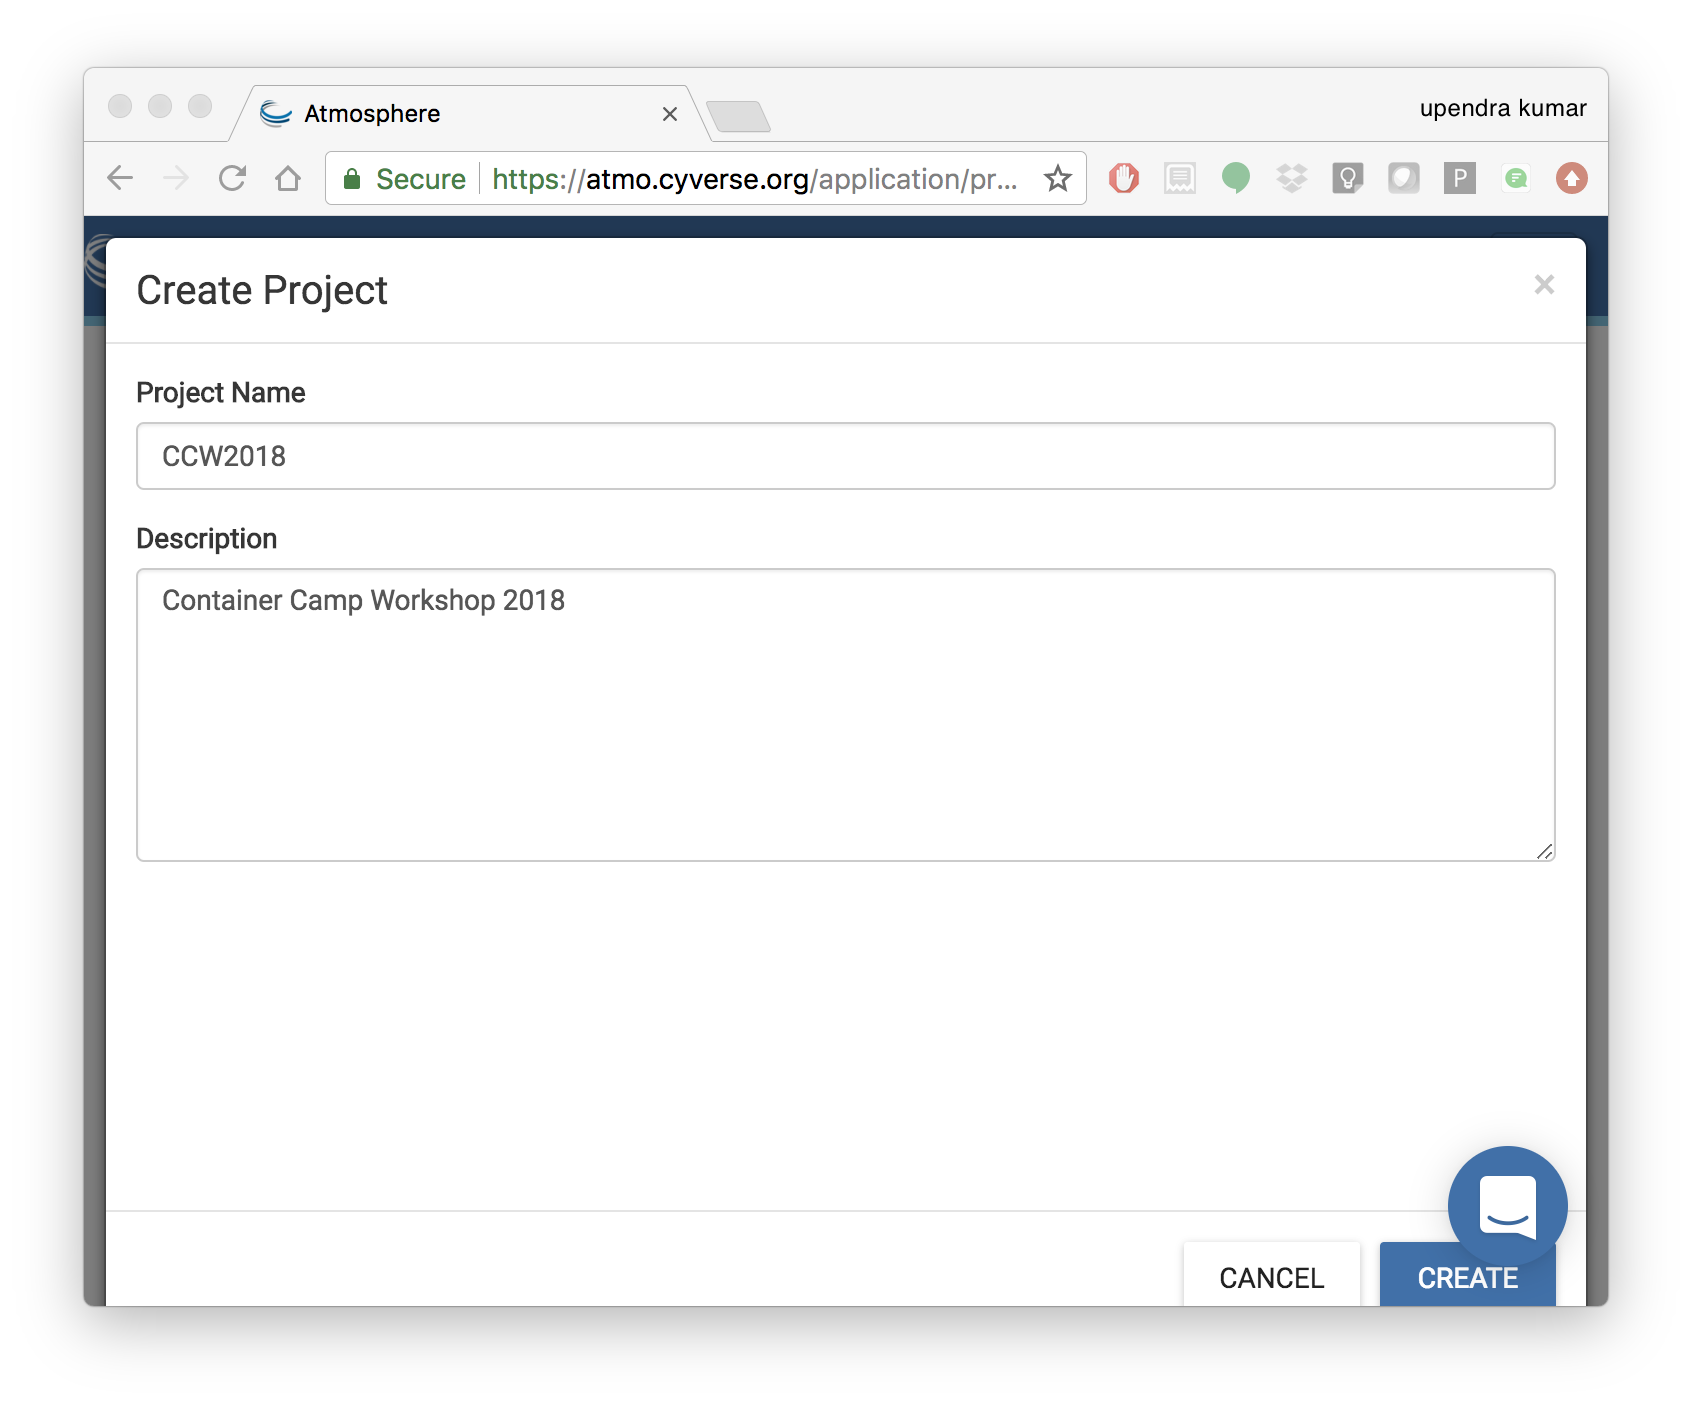
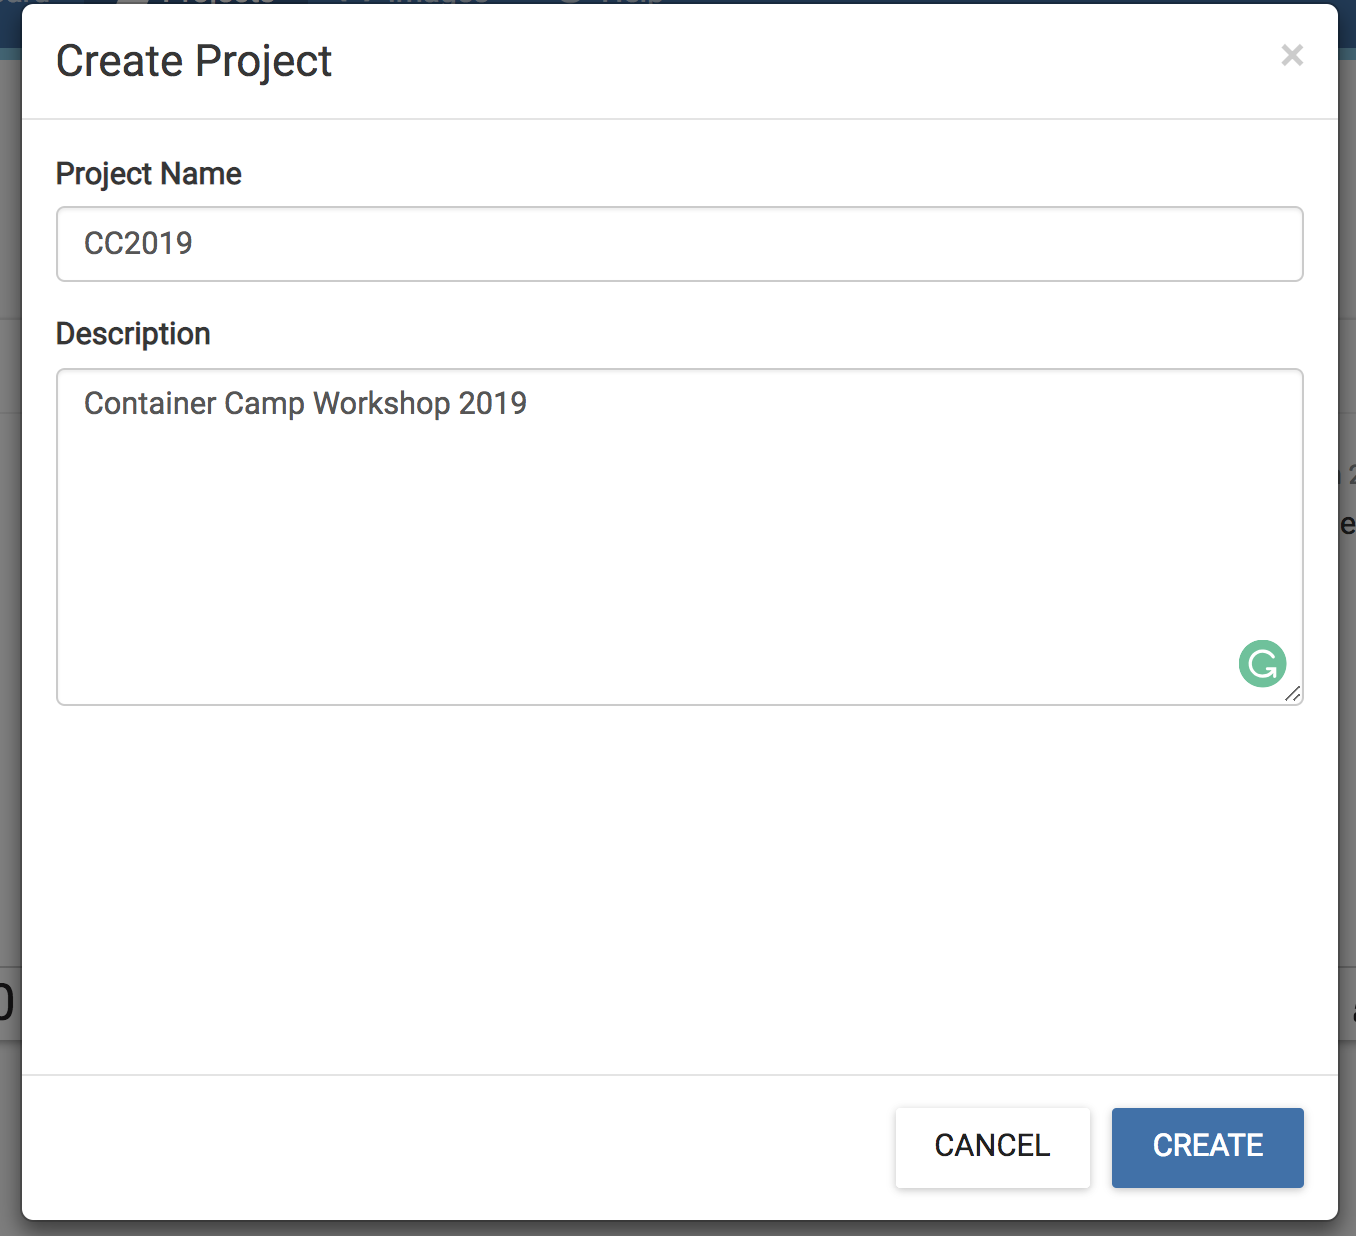
Modified Atmosphere boot

Changed region(s): [[0.0, 0.0, 1.0, 1.0]]

diff --git a/cyverse/boot.rst b/cyverse/boot.rst
@@ -1,36 +1,31 @@
 **Booting an Atmosphere instance**
 ==================================
 
-In this session, we will walk through how to start up a running
-computer (an "instance") on the CyVerse Atmosphere Cloud service. 
+In this session, we will walk through how to start up a running computer (an "instance") on the CyVerse Atmosphere Cloud service. Here is the `Atmosphere manual <https://wiki.cyverse.org/wiki/display/atmman/Atmosphere+Manual+Table+of+Contents>`_ if you are interested in learning more about CyVerse Atmosphere 
 
-Below, we've provided screenshots of the whole process. You can click
-on them to zoom in a bit. The important areas to fill in are highlighted. You will need to have Atmosphere access, as listed in your Pre-Workshop Instructions.
+Below, we've provided screenshots of the whole process. You can click on them to zoom in a bit. The important areas to fill in are highlighted. 
 
-First, go to the `Atmosphere <https://atmo.cyverse.org/application/images>`_ application and then click `login`
+First, go to the `Atmosphere <https://atmo.cyverse.org>`_ application and then click **login** 
 
 .. important::
 
-  You will need to have access to the Atmosphere workshop cloud. If you are not able to log-in for some reason, please let us know and we will fix it immediately.
+  You will need to have access to the Atmosphere workshop cloud. If you are unable to log-in for some reason, please let us know and we will fix it immediately.
 
-1. Fill in the username and password and click "LOGIN"
+1. Fill in the username and password and click **LOGIN**
 
-Fill in the username, which is your CyVerse username,
-and then enter the password (which is your CyVerse password).
+Fill in the username, which is your CyVerse username, and then enter the password which is your CyVerse password.
 
-|atmo-1|
+|atmo-1.1|
            
-2. Select Projects and "Create New Project"
+2. Select Projects and **Create New Project**
 
 - Now, this is something you only need to do once.
 
-- We'll do this with Projects, which gives you a bit of a workspace in which to keep things that belong to "you".
+- We'll do this with Projects, which gives you a bit of a workspace in which to keep things that belong to *you*.
 
-- Click on the "Projects" tab on the top and then click "CREATE NEW PROJECT"
+- Click on the **Projects** tab on the top and then click **CREATE NEW PROJECT**
 
-|atmo_cp0|
-
-- Enter the name "CCW2018" into the Project Name, and something simple like "Container Camp Workshop 2018" into the description. Then click 'create'.
+- Enter the name **CC2019** into the Project Name box, and something simple like **Container Camp Workshop 2019** into the description. Then click **create**.
 
 |atmo_cp|
 
@@ -38,15 +33,15 @@ and then enter the password (which is your CyVerse password).
 
 - Click on your newly created project!
            
-- Now, click 'New' and then "Instance" from the dropdown menu to start up a new virtual machine.
+- Now, click **New** and then **Instance** from the dropdown menu to start up a new virtual machine.
 
 |atmo_launch0|
 
-- Find the "Ubuntu 16.04" image, click on it
+- Find the **Ubuntu 18.04** image, click on it
 
 |atmo_launch1|
 
-- Name it something simple such as "workshop tutorial" and select 'tiny1 (CPU: 1, Mem: 4GB, Disk: 30GB)'.
+- Name it something simple such as **workshop tutorial** and select **small1 (CPU: 2, Mem: 8GB, Disk: 30GB)**.
 
 - Leave rest of the fields as default.
 
@@ -54,25 +49,25 @@ and then enter the password (which is your CyVerse password).
 
 - Wait for it to become active
 
-- It will now be booting up! This will take 2-10 minutes, depending.
-Just wait! Don't reload or anything.
+- It will now be booting up! This will take 2-10 minutes, depending. Just wait! Don't reload or do anything.
 
 |atmo-6|
 
 - Click on your new instance to get more information!
 
-- Now, you can either click "Open Web Shell", *or*, if you know how to use ssh,
-you can ssh in with your CyVerse username on the IP address of the machine 
-
-|atmo-7|
+- Now, you can either click **Open Web Shell**, *or*, you can ssh in with your CyVerse username on the IP address of the machine. For using **Open Web Shell**, click on the name of the instance and it will take you to the next screen. You'll find the **Open Web Shell** underneath the Actions menu on the right.
 
 **Deleting your instance**
 
-- To completely remove your instance, you can select the "delete" buttom from the instance details page. 
+- To completely remove your instance, you can select the **Delete** buttom from the instance Actions page. 
 
-- This will open up a dialogue window. Select the "Yes, delete this instance" button.
+- This will open up a dialogue window. Select the **Yes, delete this instance** button.
 
 |atmo-8|
+
+.. important::
+
+Before deleting an instance make sure you backup your data, once the instance is deleted, there is no way you can get the data back. It is recommended to `attach the volume to the instance <https://wiki.cyverse.org/wiki/display/atmman/Attaching+and+Detaching+Volumes>`_ and do your analysis there.
 
 - It may take Atmosphere a few minutes to process your request. The instance should disappear from the project when it has been successfully deleted. 
 
@@ -82,11 +77,7 @@ you can ssh in with your CyVerse username on the IP address of the machine
 
   It is advisable to delete the machine if you are not planning to use it in future to save valuable resources. However if you want to use it in future, you can suspend it.
 
-.. |atmo-1| image:: ../img/atmo-1.png
-  :width: 700
-  :height: 400
-
-.. |atmo_cp0| image:: ../img/atmo_cp0.png
+.. |atmo-1.1| image:: ../img/atmo-1.1.png
   :width: 700
   :height: 400
 

diff --git a/topics/breakout_session.rst b/topics/breakout_session.rst
@@ -7,22 +7,18 @@
 
 	In this breakout session, you'll learn about Biocontainers and apply what you've learned about basic container technology, such as Docker, with open source bioinformatics apps for Proteomics, Genomics, Transcriptomics, and Metabolomics.
 
-
 2. **nvidi-docker** - Lead: Tyson Swetnam, CyVerse Scientific Analyst
 
-	`nvidi-docker breakout session content <../breakout/nvidia-docker.html>`_
+	`nvidia docker breakout session content <../breakout/nvidia-docker.html>`_
 
 	In this breakout session, you'll learn about NVIDIA GPU Cloud, and how to use NVIDIA-based containers in Docker and Singularity. 
-	
 	NVIDIA GPUs are widely used for 3D modelling and Machine Learning applications. We will discuss the complexities of working with these different container types, with hands on examples running CyVerse and HPC.
-
 
 3. **Containerized workflows** - Lead: Sateesh Peri, CyVerse power user, University of Nevada-Reno
 
 	`Containerized workflows breakout session content <../breakout/workflows.html>`_
 
-	In this breakout session, you'll learn about 
-
+	In this breakout session you'll learn about Snakemake, a workflow management system consisting of a text-based workflow specification language and a scalable execution environment. You will be introduced to the Snakemake workflow definition language and how to use the execution environment to scale workflows to compute servers and clusters while adapting to hardware specific constraints. 
 
 4. **Docker for Data Science** - Lead: Upendra Devisetty, CyVerse Scientific Analyst
 
